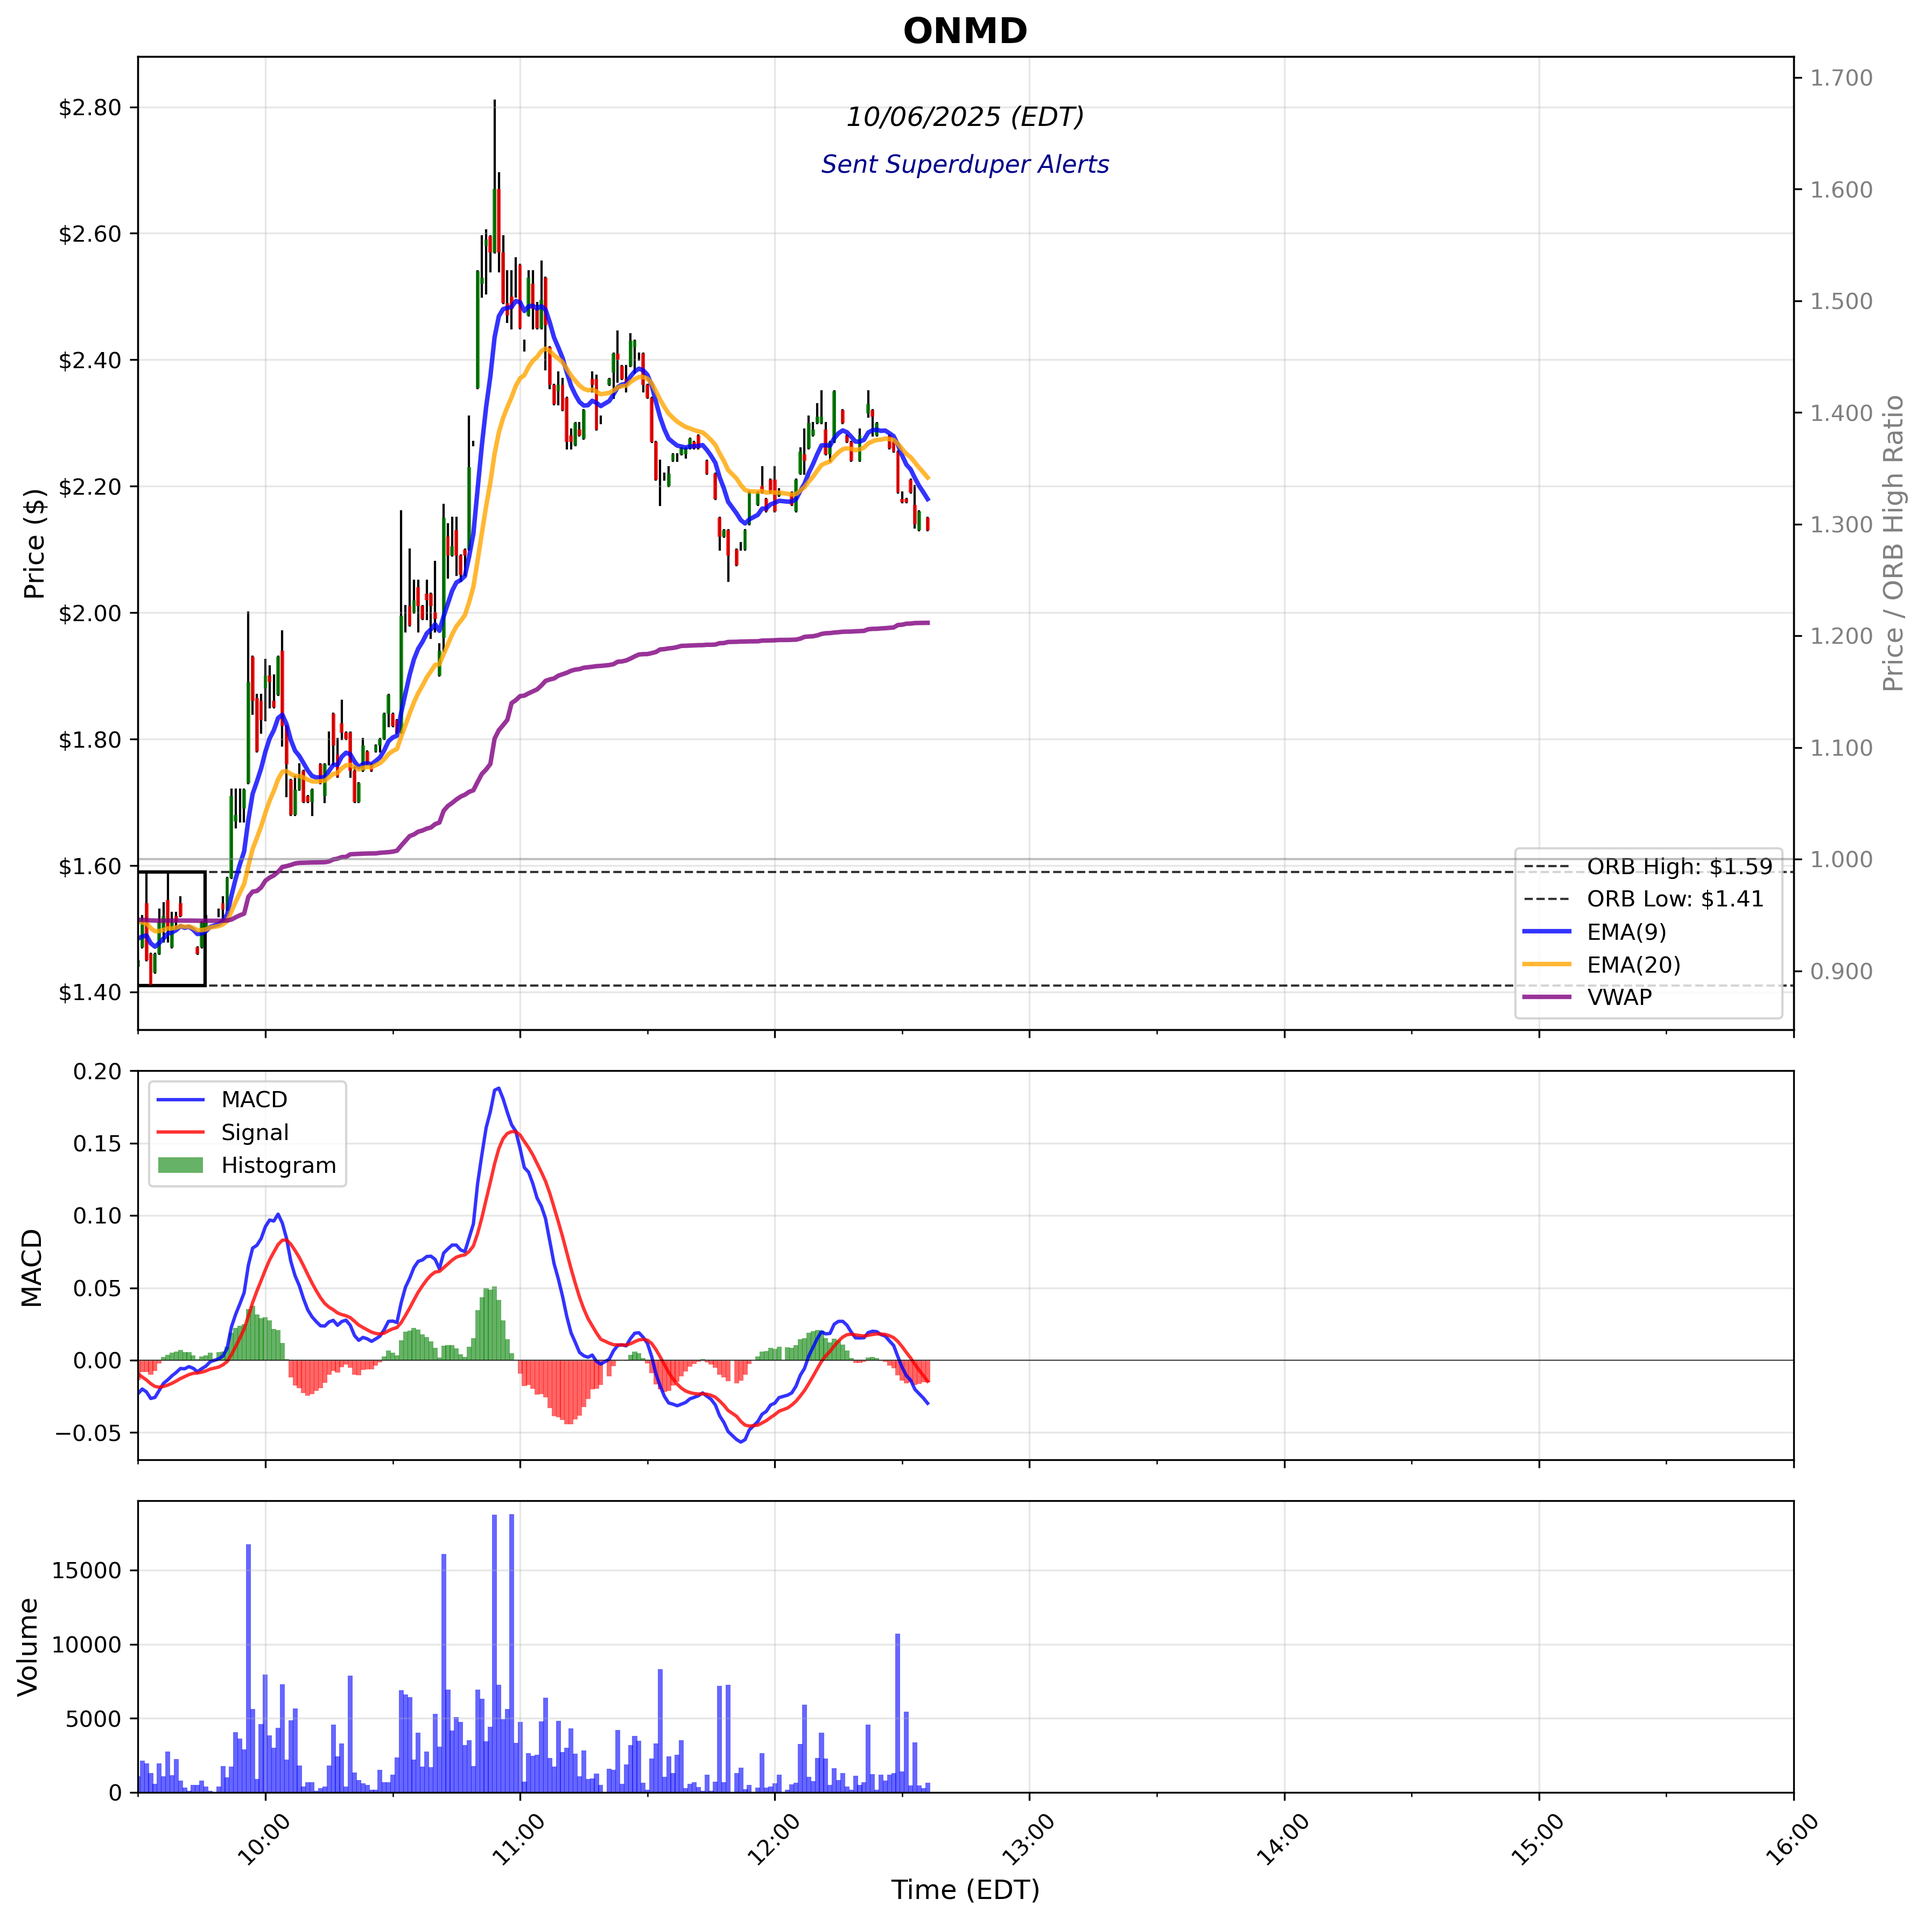
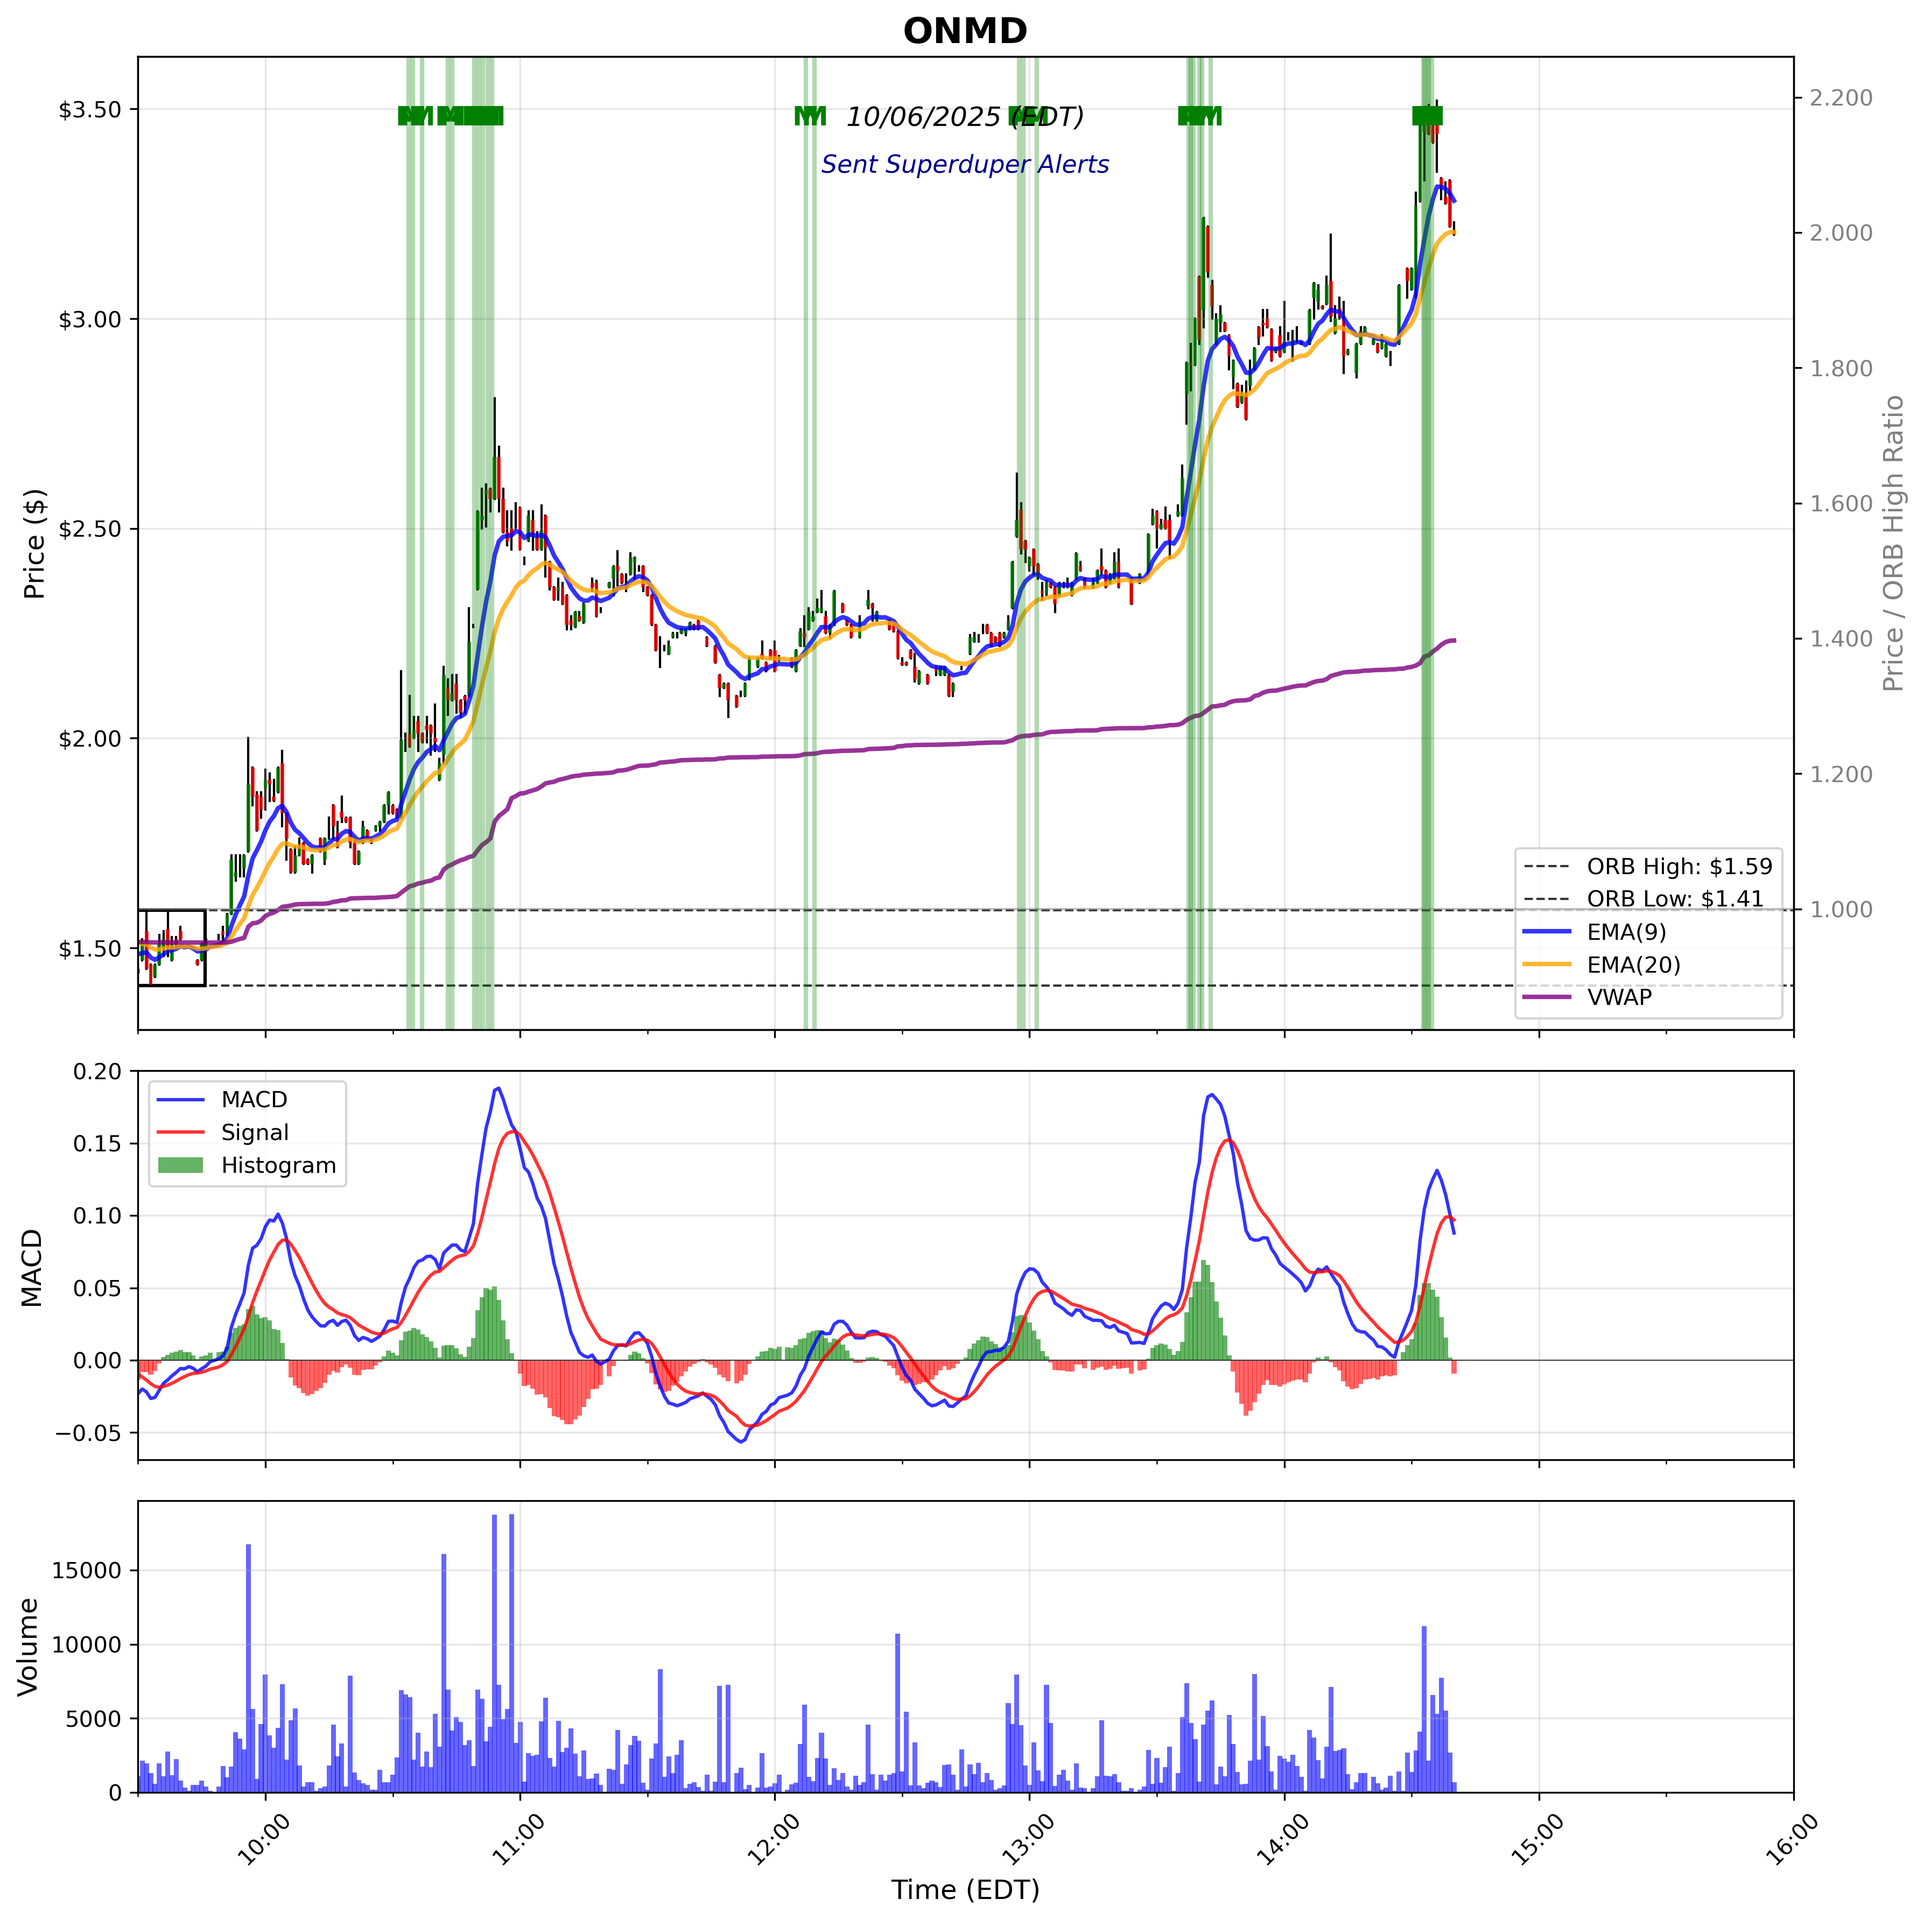
Claude added volume filtering to momentum alerts using config threshold
- Filter out low volume momentum alerts in _check_momentum_criteria method
- Use volume_low_threshold (60,000) from momentum_alerts_config.py
- Added early filtering to avoid processing low-volume stocks
- Fixed unused time import

🤖 Generated with [Claude Code](https://claude.ai/code)

diff --git a/code/momentum_alerts.py b/code/momentum_alerts.py
@@ -26,7 +26,6 @@ import logging
 import os
 import subprocess
 import sys
-import time
 from datetime import datetime, timedelta
 from pathlib import Path
 from typing import Dict, List, Optional, Set
@@ -539,6 +538,11 @@ class MomentumAlertsSystem:
             current_price = float(latest_bar['c'])  # Use single letter attribute
             current_vwap = float(latest_bar['vwap'])  # VWAP from stock data only
             current_volume = int(latest_bar['v'])  # Get current volume
+
+            # Filter out low volume alerts
+            if current_volume < self.momentum_config.volume_low_threshold:
+                self.logger.debug(f"❌ {symbol}: Volume {current_volume:,} below threshold {self.momentum_config.volume_low_threshold:,}")
+                return None
 
             # Check VWAP criteria
             if current_price < current_vwap:

diff --git a/todo.md b/todo.md
@@ -196,14 +196,15 @@ Raise minimum volume on market open top gainers
 
 Update market open top gainers. Save two decimal places.
 
-Update, momentum alerts: filter, red volume
+## Momentum Alerts Filter Volume
 
-Add momentum alerts to the plots in a different color.
+- [ ] ULTRATHINK. Update code/momentum_alerts.py to filter out low volume sent momentum alters.
+Use code/momentum_alerts_config.py: volume_low_threshold
 
 
 ## Plot Momentum Alerts Also
 
-- [ ] ULTRATHINK.  code/alpaca.py --plot currently generates stock charts to include sent superduper alerts.
+- [X] ULTRATHINK.  code/alpaca.py --plot currently generates stock charts to include sent superduper alerts.
 Please also plot momentum alerts but use a different color than the sent superduper alerts.
 The file path format is as follows:
 historical_data/YYYY-MM-DD/momentum_alerts_sent/bullish/alert_{symbol}_YYYY-MM-DD_*.json
